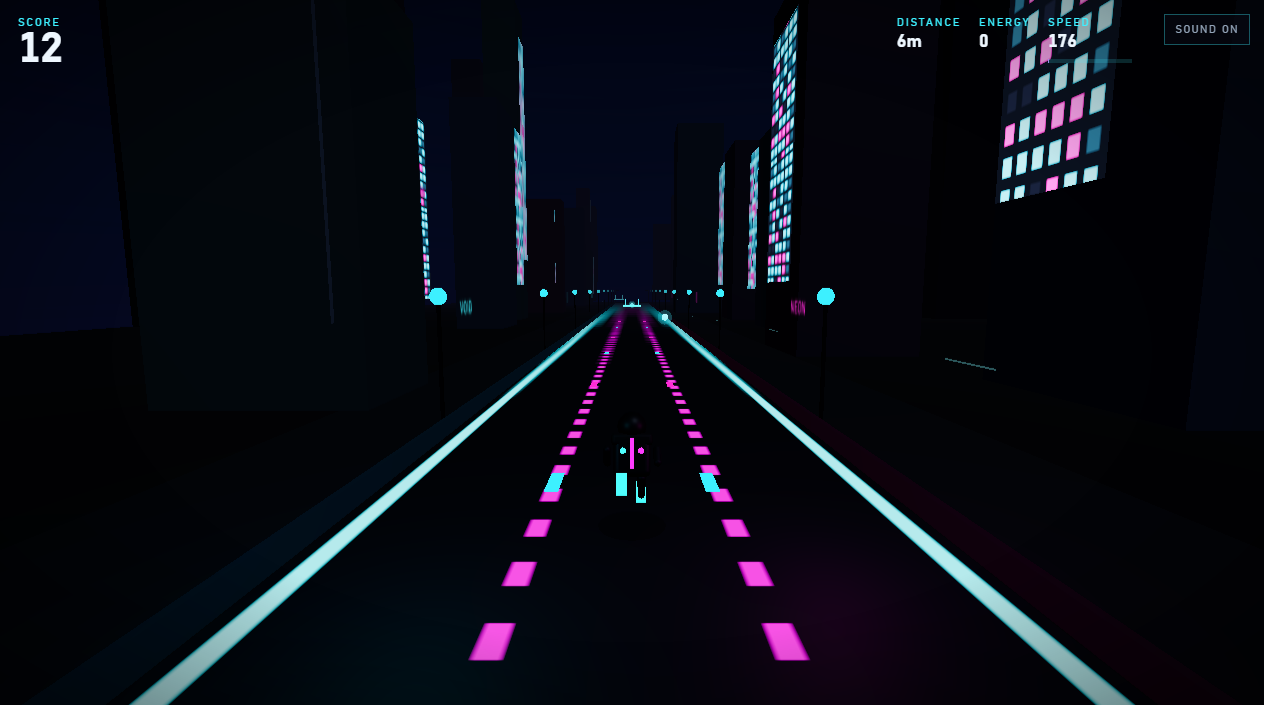
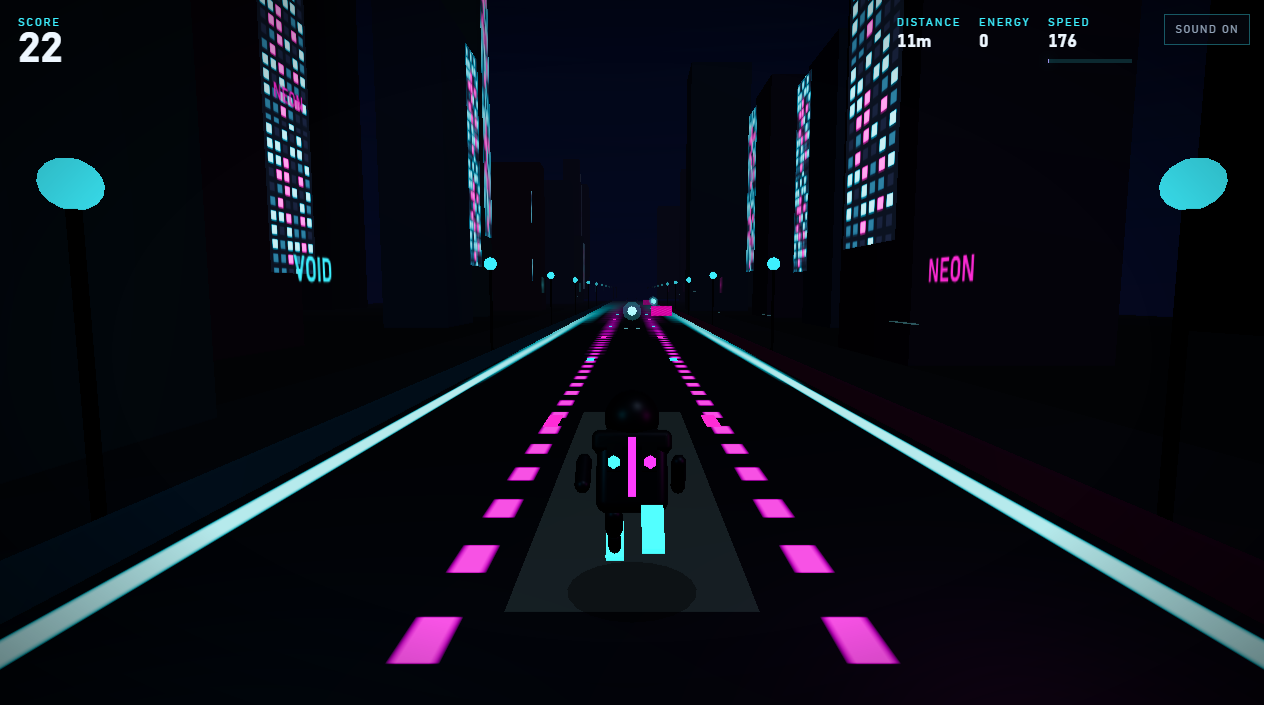
updated the ui for nuildings and else

diff --git a/src/components/Obstacles.jsx b/src/components/Obstacles.jsx
@@ -8,6 +8,7 @@ const DUMMY = new THREE.Object3D()
 const MAX = 20
 
 function place(mesh, index, x, y, z, sx, sy, sz) {
+  if (!mesh) return
   DUMMY.position.set(x, y, z)
   DUMMY.rotation.set(0, 0, 0)
   DUMMY.scale.set(sx, sy, sz)
@@ -16,6 +17,7 @@ function place(mesh, index, x, y, z, sx, sy, sz) {
 }
 
 function commit(mesh, count) {
+  if (!mesh) return
   mesh.count = count
   mesh.instanceMatrix.needsUpdate = true
 }
@@ -27,6 +29,9 @@ export function Obstacles({ worldRef }) {
   const postR = useRef()
   const block = useRef()
   const edge = useRef()
+  const warnLow = useRef()
+  const warnHigh = useRef()
+  const warnBlock = useRef()
   const stripes = useMemo(() => {
     const canvas = document.createElement('canvas')
     canvas.width = 64
@@ -50,12 +55,13 @@ export function Obstacles({ worldRef }) {
   }, [])
 
   useLayoutEffect(() => {
-    ;[low, bar, postL, postR, block, edge].forEach((ref) => {
+    ;[low, bar, postL, postR, block, edge, warnLow, warnHigh, warnBlock].forEach((ref) => {
       if (ref.current) ref.current.frustumCulled = false
     })
   }, [])
 
   useFrame(() => {
+    if (!low.current || !warnBlock.current) return
     const visible = useGameStore.getState().phase !== 'MENU'
     const list = worldRef.current.obstacles
     let lowCount = 0
@@ -68,15 +74,18 @@ export function Obstacles({ worldRef }) {
         const x = LANE_X[item.lane]
         if (item.type === 'low' && lowCount < MAX) {
           place(low.current, lowCount, x, 0.41, item.z, 1.78, 0.82, 0.74)
+          place(warnLow.current, lowCount, x, 0.04, item.z - 4.5, 1.15, 0.03, 2.2)
           lowCount += 1
         } else if (item.type === 'high' && highCount < MAX) {
-          place(bar.current, highCount, x, 1.42, item.z, 2.08, 0.26, 0.36)
-          place(postL.current, highCount, x - 0.72, 1.9, item.z, 0.08, 0.72, 0.08)
-          place(postR.current, highCount, x + 0.72, 1.9, item.z, 0.08, 0.72, 0.08)
+          place(bar.current, highCount, x, 1.5, item.z, 2.15, 0.34, 0.42)
+          place(postL.current, highCount, x - 0.95, 2.15, item.z, 0.1, 1.15, 0.1)
+          place(postR.current, highCount, x + 0.95, 2.15, item.z, 0.1, 1.15, 0.1)
+          place(warnHigh.current, highCount, x, 0.04, item.z - 4.5, 1.15, 0.03, 2.2)
           highCount += 1
         } else if (item.type === 'block' && blockCount < MAX) {
-          place(block.current, blockCount, x, 1.02, item.z, 1.52, 2.04, 1.18)
-          place(edge.current, blockCount, x, 1.62, item.z + 0.6, 1.58, 0.08, 0.05)
+          place(block.current, blockCount, x, 1.05, item.z, 1.55, 2.1, 1.25)
+          place(edge.current, blockCount, x, 1.85, item.z, 1.62, 0.1, 1.28)
+          place(warnBlock.current, blockCount, x, 0.04, item.z - 4.5, 1.35, 0.03, 2.2)
           blockCount += 1
         }
       }
@@ -87,6 +96,9 @@ export function Obstacles({ worldRef }) {
     commit(postR.current, highCount)
     commit(block.current, blockCount)
     commit(edge.current, blockCount)
+    commit(warnLow.current, lowCount)
+    commit(warnHigh.current, highCount)
+    commit(warnBlock.current, blockCount)
   })
 
   return (
@@ -122,6 +134,18 @@ export function Obstacles({ worldRef }) {
       <instancedMesh ref={edge} args={[null, null, MAX]}>
         <boxGeometry args={[1, 1, 1]} />
         <meshStandardMaterial color="#ff2bd6" emissive="#ff2bd6" emissiveIntensity={1.6} toneMapped={false} />
+      </instancedMesh>
+      <instancedMesh ref={warnLow} args={[null, null, MAX]}>
+        <boxGeometry args={[1, 1, 1]} />
+        <meshBasicMaterial color="#ff2bd6" transparent opacity={0.45} depthWrite={false} toneMapped={false} />
+      </instancedMesh>
+      <instancedMesh ref={warnHigh} args={[null, null, MAX]}>
+        <boxGeometry args={[1, 1, 1]} />
+        <meshBasicMaterial color="#3df0ff" transparent opacity={0.4} depthWrite={false} toneMapped={false} />
+      </instancedMesh>
+      <instancedMesh ref={warnBlock} args={[null, null, MAX]}>
+        <boxGeometry args={[1, 1, 1]} />
+        <meshBasicMaterial color="#ff4d6a" transparent opacity={0.4} depthWrite={false} toneMapped={false} />
       </instancedMesh>
     </group>
   )

diff --git a/src/components/Collectibles.jsx b/src/components/Collectibles.jsx
@@ -15,16 +15,27 @@ function place(mesh, index, x, y, z, scale, spin) {
   mesh.setMatrixAt(index, DUMMY.matrix)
 }
 
+function placeRing(mesh, index, x, z) {
+  DUMMY.position.set(x, 0.045, z)
+  DUMMY.rotation.set(-Math.PI / 2, 0, 0)
+  DUMMY.scale.setScalar(1)
+  DUMMY.updateMatrix()
+  mesh.setMatrixAt(index, DUMMY.matrix)
+}
+
 export function Collectibles({ worldRef }) {
   const core = useRef()
   const glow = useRef()
+  const ring = useRef()
 
   useLayoutEffect(() => {
     core.current.frustumCulled = false
     glow.current.frustumCulled = false
+    ring.current.frustumCulled = false
   }, [])
 
   useFrame(() => {
+    if (!core.current || !glow.current || !ring.current) return
     const visible = useGameStore.getState().phase !== 'MENU'
     const world = worldRef.current
     const list = world.collectibles
@@ -37,13 +48,16 @@ export function Collectibles({ worldRef }) {
         const spin = world.elapsed * 2.2 + i
         place(core.current, count, LANE_X[orb.lane], bob, orb.z, 1, spin)
         place(glow.current, count, LANE_X[orb.lane], bob, orb.z, 1.15 + Math.sin(world.elapsed * 4 + i) * 0.08, spin)
+        placeRing(ring.current, count, LANE_X[orb.lane], orb.z)
         count += 1
       }
     }
     core.current.count = count
     glow.current.count = count
+    ring.current.count = count
     core.current.instanceMatrix.needsUpdate = true
     glow.current.instanceMatrix.needsUpdate = true
+    ring.current.instanceMatrix.needsUpdate = true
   })
 
   return (
@@ -55,6 +69,10 @@ export function Collectibles({ worldRef }) {
       <instancedMesh ref={glow} args={[null, null, MAX]}>
         <sphereGeometry args={[0.46, 12, 10]} />
         <meshBasicMaterial color="#3df0ff" transparent opacity={0.28} depthWrite={false} toneMapped={false} />
+      </instancedMesh>
+      <instancedMesh ref={ring} args={[null, null, MAX]}>
+        <ringGeometry args={[0.28, 0.48, 20]} />
+        <meshBasicMaterial color="#7af6ff" transparent opacity={0.7} depthWrite={false} side={THREE.DoubleSide} toneMapped={false} />
       </instancedMesh>
     </group>
   )

diff --git a/src/components/GameCanvas.jsx b/src/components/GameCanvas.jsx
@@ -61,16 +61,16 @@ function CameraRig() {
     const boost = (world.speed - 17) / 20
     const shake = world.shake
     target.set(
-      player.x * 0.42 + (Math.random() - 0.5) * shake * 0.28,
-      3.2 + player.y * 0.16 + (Math.random() - 0.5) * shake * 0.12,
-      7.05 - boost * 0.4,
+      player.x * 0.55 + (Math.random() - 0.5) * shake * 0.22,
+      2.15 + player.y * 0.2 + (Math.random() - 0.5) * shake * 0.1,
+      4.35 - boost * 0.25,
     )
     const camera = state.camera
     camera.position.lerp(target, 1 - Math.exp(-4.2 * dt))
-    look.set(player.x * 0.55, 1.02 + player.y * 0.1, -12)
+    look.set(player.x * 0.65, 1.05 + player.y * 0.12, -7)
     camera.lookAt(look)
-    camera.rotateZ(player.x * -0.012)
-    const fov = 66 + boost * 7
+    camera.rotateZ(player.x * -0.02)
+    const fov = 58 + boost * 6
     if (Math.abs(camera.fov - fov) > 0.08) {
       camera.fov = fov
       camera.updateProjectionMatrix()
@@ -87,7 +87,7 @@ export function GameCanvas() {
     <Canvas
       className="game-canvas"
       dpr={quality === 'high' ? [1, 1.6] : [1, 1.1]}
-      camera={{ position: [0, 3.2, 7.1], fov: 66, near: 0.1, far: 280 }}
+      camera={{ position: [0, 2.15, 4.35], fov: 58, near: 0.1, far: 280 }}
       gl={{
         antialias: quality === 'high',
         alpha: false,

diff --git a/src/components/Player.jsx b/src/components/Player.jsx
@@ -49,7 +49,7 @@ export function Player() {
     visual.current.rotation.z = (LANE_X[player.lane] - player.x) * -0.16
     // Negative X pitch leans the chest toward -Z, the direction of travel.
     body.current.rotation.x = player.sliding ? -1.05 : running ? -0.32 : -0.16
-    body.current.position.y = player.sliding ? 0.32 : 0.68
+    body.current.position.y = player.sliding ? 0.28 : 0.56
     const squash = player.land || 0
     body.current.scale.set(1 + squash * 0.08, 1 - squash * 0.16, 1)
     const stride = running ? Math.sin(cycle) : 0
@@ -68,6 +68,10 @@ export function Player() {
 
   return (
     <group ref={root}>
+      <mesh rotation={[-Math.PI / 2, 0, 0]} position={[0, 0.025, -3.2]}>
+        <planeGeometry args={[1.7, 7]} />
+        <meshBasicMaterial color="#3df0ff" transparent opacity={0.12} depthWrite={false} />
+      </mesh>
       <mesh ref={shadow} rotation={[-Math.PI / 2, 0, 0]} position={[0, 0.035, 0]}>
         <circleGeometry args={[0.46, 20]} />
         <meshBasicMaterial color="#000000" transparent opacity={0.4} depthWrite={false} />
